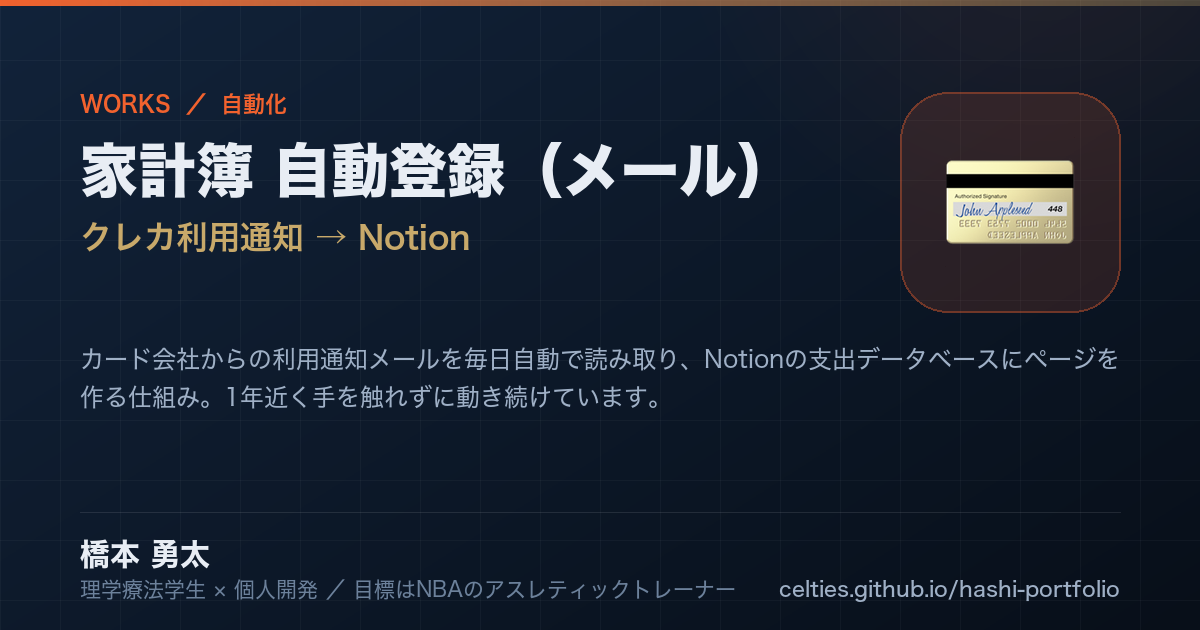
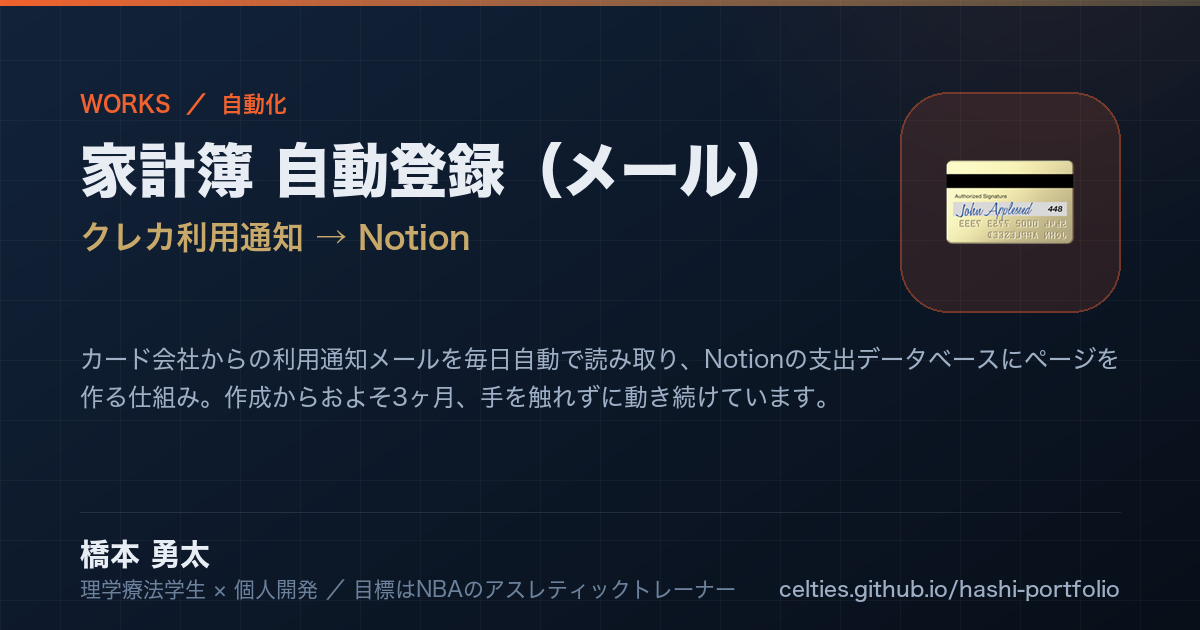
「1年近く」の誇張を直し、強みと診断のまとめを本人の言葉に

Changed region(s): [[0.185, 0.6032, 0.6783, 0.6635]]

diff --git a/works/kakeibo-mail/index.html b/works/kakeibo-mail/index.html
@@ -4,14 +4,14 @@
 <meta charset="UTF-8" />
 <meta name="viewport" content="width=device-width, initial-scale=1" />
 <title>家計簿 自動登録（メール）｜クレカ利用通知 → Notion — 橋本勇太のつくったもの</title>
-<meta name="description" content="カード会社からの利用通知メールを毎日自動で読み取り、Notionの支出データベースにページを作る仕組み。1年近く手を触れずに動き続けています。" />
+<meta name="description" content="カード会社からの利用通知メールを毎日自動で読み取り、Notionの支出データベースにページを作る仕組み。作成からおよそ3ヶ月、手を触れずに動き続けています。" />
 <link rel="canonical" href="https://celties.github.io/hashi-portfolio/works/kakeibo-mail/" />
 <meta name="theme-color" content="#E8E8E8" />
 <meta property="og:site_name" content="橋本勇太 / Hashi — Works" />
 <meta property="og:locale" content="ja_JP" />
 <meta property="og:type" content="article" />
 <meta property="og:title" content="家計簿 自動登録（メール）｜クレカ利用通知 → Notion — 橋本勇太のつくったもの" />
-<meta property="og:description" content="カード会社からの利用通知メールを毎日自動で読み取り、Notionの支出データベースにページを作る仕組み。1年近く手を触れずに動き続けています。" />
+<meta property="og:description" content="カード会社からの利用通知メールを毎日自動で読み取り、Notionの支出データベースにページを作る仕組み。作成からおよそ3ヶ月、手を触れずに動き続けています。" />
 <meta property="og:url" content="https://celties.github.io/hashi-portfolio/works/kakeibo-mail/" />
 <meta property="og:image" content="https://celties.github.io/hashi-portfolio/og/kakeibo-mail.png" />
 <meta property="og:image:width" content="1200" />
@@ -23,7 +23,7 @@
 <link rel="preconnect" href="https://fonts.gstatic.com" crossorigin />
 <link href="https://fonts.googleapis.com/css2?family=Zen+Kaku+Gothic+New:wght@400;500;700;900&family=Space+Grotesk:wght@400;500;700&display=swap" rel="stylesheet" />
 <link rel="stylesheet" href="../../style.css?v=37" />
-<script type="application/ld+json">{"@context":"https://schema.org","@type":"CreativeWork","name":"家計簿 自動登録（メール）","alternativeHeadline":"クレカ利用通知 → Notion","description":"カード会社からの利用通知メールを毎日自動で読み取り、Notionの支出データベースにページを作る仕組み。1年近く手を触れずに動き続けています。","url":"https://celties.github.io/hashi-portfolio/works/kakeibo-mail/","image":"https://celties.github.io/hashi-portfolio/og/kakeibo-mail.png","genre":"自動化","inLanguage":"ja","author":{"@type":"Person","@id":"https://celties.github.io/hashi-portfolio/#person","name":"橋本勇太","alternateName":["Yuta Hashimoto","Hashi"],"url":"https://celties.github.io/hashi-portfolio/","image":"https://celties.github.io/hashi-portfolio/og/default.png","jobTitle":"理学療法学生","affiliation":{"@type":"CollegeOrUniversity","name":"東京都立大学"},"knowsAbout":["理学療法","バスケットボール","個人開発","業務自動化","動画制作"],"sameAs":["https://github.com/celties","https://www.linkedin.com/in/hashimoto-yuta-tmu/","https://www.instagram.com/nbatrainerfromjapan/"]}}</script>
+<script type="application/ld+json">{"@context":"https://schema.org","@type":"CreativeWork","name":"家計簿 自動登録（メール）","alternativeHeadline":"クレカ利用通知 → Notion","description":"カード会社からの利用通知メールを毎日自動で読み取り、Notionの支出データベースにページを作る仕組み。作成からおよそ3ヶ月、手を触れずに動き続けています。","url":"https://celties.github.io/hashi-portfolio/works/kakeibo-mail/","image":"https://celties.github.io/hashi-portfolio/og/kakeibo-mail.png","genre":"自動化","inLanguage":"ja","author":{"@type":"Person","@id":"https://celties.github.io/hashi-portfolio/#person","name":"橋本勇太","alternateName":["Yuta Hashimoto","Hashi"],"url":"https://celties.github.io/hashi-portfolio/","image":"https://celties.github.io/hashi-portfolio/og/default.png","jobTitle":"理学療法学生","affiliation":{"@type":"CollegeOrUniversity","name":"東京都立大学"},"knowsAbout":["理学療法","バスケットボール","個人開発","業務自動化","動画制作"],"sameAs":["https://github.com/celties","https://www.linkedin.com/in/hashimoto-yuta-tmu/","https://www.instagram.com/nbatrainerfromjapan/"]}}</script>
 <script type="application/ld+json">{"@context":"https://schema.org","@type":"BreadcrumbList","itemListElement":[{"@type":"ListItem","position":1,"name":"トップ","item":"https://celties.github.io/hashi-portfolio/"},{"@type":"ListItem","position":2,"name":"つくったもの","item":"https://celties.github.io/hashi-portfolio/works/"},{"@type":"ListItem","position":3,"name":"家計簿 自動登録（メール）","item":"https://celties.github.io/hashi-portfolio/works/kakeibo-mail/"}]}</script>
 </head>
 <body class="page">
@@ -56,7 +56,7 @@
       <a class="badge" href="../../works/#automation">自動化</a>
     </div>
 
-    <p class="m-sum">カード会社からの利用通知メールを毎日自動で読み取り、Notionの支出データベースにページを作る仕組み。1年近く手を触れずに動き続けています。</p>
+    <p class="m-sum">カード会社からの利用通知メールを毎日自動で読み取り、Notionの支出データベースにページを作る仕組み。作成からおよそ3ヶ月、手を触れずに動き続けています。</p>
 
     <h2 class="m-h">なぜ作ったか・どう作ったか</h2>
     <div class="m-body"><p>IMAPでGmailを取得し、行ラベル方式のパーサーで店名・金額・日付を抜き出してNotionに登録します。店名のキーワードからカテゴリーとページ絵文字まで自動で決まります。</p><p>楽天カードの「速報版」は金額しか届かないので、いったん仮登録しておき、後日届く確定メールで同じページの店名とカテゴリーを上書きする二段構えにしました。</p><p>実運用でぶつかった問題がそのまま設計になっています。NotionのDB自動化がAPI作成直後の日付を上書きするので10秒待って再設定する、launchdはDownloads配下を読めないので実行ファイルをホーム直下へ置く、macOSのバックグラウンド管理に拒否されて起動しなくなる——こうした落とし穴を1つずつ潰しました。</p></div>

diff --git a/data.js b/data.js
@@ -157,7 +157,7 @@ const PROJECTS = [
     featured: true,
     emoji: "💳",
     summary:
-      "カード会社からの利用通知メールを毎日自動で読み取り、Notionの支出データベースにページを作る仕組み。1年近く手を触れずに動き続けています。",
+      "カード会社からの利用通知メールを毎日自動で読み取り、Notionの支出データベースにページを作る仕組み。作成からおよそ3ヶ月、手を触れずに動き続けています。",
     body: [
       "IMAPでGmailを取得し、行ラベル方式のパーサーで店名・金額・日付を抜き出してNotionに登録します。店名のキーワードからカテゴリーとページ絵文字まで自動で決まります。",
       "楽天カードの「速報版」は金額しか届かないので、いったん仮登録しておき、後日届く確定メールで同じページの店名とカテゴリーを上書きする二段構えにしました。",
@@ -303,7 +303,7 @@ const INTERESTS = [
 
 const STRENGTHS = [
   { title: "困りごとを道具にする", note: "不便を我慢せず、その日のうちに動くものを作って回し始める。このサイトに並ぶ作品は、ほぼ全部その産物。" },
-  { title: "続く仕組みをつくる", note: "気合いではなく仕組みで続ける。毎日決まった時間に走る自動化を、1年近く止めずに運用している。" },
+  { title: "続く仕組みをつくる", note: "気合いではなく仕組みで続ける。一度決めたことを、毎日こつこつ続けられる。" },
   { title: "3つの立場からコートを見た", note: "プレイヤー・学生コーチ・OBトレーナーのすべてを経験した。同じ1本のプレーが、やる側・教える側・支える側でどう違って見えるかを知っている。いまは大学のサークルで、運営する側にも回っている。" },
   { title: "身体とデータの両方を見る", note: "理学療法で学ぶ身体の知識と、記録・可視化の技術をつなげて考えられる。" },
   { title: "ひとりで最後まで運ぶ", note: "企画・設計・実装・デザイン・公開・運用まで、ひと通り自分で通せる。" },
@@ -387,7 +387,7 @@ const PERSONALITY = {
     },
   ],
   summary:
-    "人に向かっていく熱と、筋道を立てて淡々と運ぶ冷静さ。この二つが同居しているのが自分だと思っています。支える側の仕事には、たぶん両方が要ります。",
+    "人に向かっていく熱と、筋道を立てて淡々と運ぶ冷静さ。この二つが同居しているのが自分だと思っています。人を支える役職には欠かせない能力ではないでしょうか。",
 };
 
 const CAREER = {

diff --git a/works/task-manager/index.html b/works/task-manager/index.html
@@ -100,7 +100,7 @@
           <span class="badge">2026.07 —</span>
           <span class="badge">自動化</span>
         </span>
-        <span class="card-sum">カード会社からの利用通知メールを毎日自動で読み取り、Notionの支出データベースにページを作る仕組み。1年近く手を触れずに動き続けています。</span>
+        <span class="card-sum">カード会社からの利用通知メールを毎日自動で読み取り、Notionの支出データベースにページを作る仕組み。作成からおよそ3ヶ月、手を触れずに動き続けています。</span>
         <span class="card-more">詳しく見る <span class="arw">→</span></span>
       </a><a class="card feat" href="../../works/order-reader/" data-id="order-reader">
         <span class="card-top">

diff --git a/works/index.html b/works/index.html
@@ -158,7 +158,7 @@
           <span class="badge">2026.07 —</span>
           <span class="badge">自動化</span>
         </span>
-        <span class="card-sum">カード会社からの利用通知メールを毎日自動で読み取り、Notionの支出データベースにページを作る仕組み。1年近く手を触れずに動き続けています。</span>
+        <span class="card-sum">カード会社からの利用通知メールを毎日自動で読み取り、Notionの支出データベースにページを作る仕組み。作成からおよそ3ヶ月、手を触れずに動き続けています。</span>
         <span class="card-more">詳しく見る <span class="arw">→</span></span>
       </a><a class="card feat" href="../works/order-reader/" data-id="order-reader">
         <span class="card-top">

diff --git a/works/order-reader/index.html b/works/order-reader/index.html
@@ -100,7 +100,7 @@
           <span class="badge">2026.07 —</span>
           <span class="badge">自動化</span>
         </span>
-        <span class="card-sum">カード会社からの利用通知メールを毎日自動で読み取り、Notionの支出データベースにページを作る仕組み。1年近く手を触れずに動き続けています。</span>
+        <span class="card-sum">カード会社からの利用通知メールを毎日自動で読み取り、Notionの支出データベースにページを作る仕組み。作成からおよそ3ヶ月、手を触れずに動き続けています。</span>
         <span class="card-more">詳しく見る <span class="arw">→</span></span>
       </a><a class="card" href="../../works/task-manager/" data-id="task-manager">
         <span class="card-top">

diff --git a/index.html b/index.html
@@ -301,7 +301,7 @@
           <span class="badge">2026.07 —</span>
           <span class="badge">自動化</span>
         </span>
-        <span class="card-sum">カード会社からの利用通知メールを毎日自動で読み取り、Notionの支出データベースにページを作る仕組み。1年近く手を触れずに動き続けています。</span>
+        <span class="card-sum">カード会社からの利用通知メールを毎日自動で読み取り、Notionの支出データベースにページを作る仕組み。作成からおよそ3ヶ月、手を触れずに動き続けています。</span>
         <span class="card-more">詳しく見る <span class="arw">→</span></span>
       </a><a class="card feat" href="works/order-reader/" data-id="order-reader">
         <span class="card-top">

diff --git a/works/basketball-stats/index.html b/works/basketball-stats/index.html
@@ -128,7 +128,7 @@
           <span class="badge">2026.07 —</span>
           <span class="badge">自動化</span>
         </span>
-        <span class="card-sum">カード会社からの利用通知メールを毎日自動で読み取り、Notionの支出データベースにページを作る仕組み。1年近く手を触れずに動き続けています。</span>
+        <span class="card-sum">カード会社からの利用通知メールを毎日自動で読み取り、Notionの支出データベースにページを作る仕組み。作成からおよそ3ヶ月、手を触れずに動き続けています。</span>
         <span class="card-more">詳しく見る <span class="arw">→</span></span>
       </a></div>
 

diff --git a/works/kintore-dojo/index.html b/works/kintore-dojo/index.html
@@ -128,7 +128,7 @@
           <span class="badge">2026.07 —</span>
           <span class="badge">自動化</span>
         </span>
-        <span class="card-sum">カード会社からの利用通知メールを毎日自動で読み取り、Notionの支出データベースにページを作る仕組み。1年近く手を触れずに動き続けています。</span>
+        <span class="card-sum">カード会社からの利用通知メールを毎日自動で読み取り、Notionの支出データベースにページを作る仕組み。作成からおよそ3ヶ月、手を触れずに動き続けています。</span>
         <span class="card-more">詳しく見る <span class="arw">→</span></span>
       </a></div>
 

diff --git a/works/magical-journal/index.html b/works/magical-journal/index.html
@@ -128,7 +128,7 @@
           <span class="badge">2026.07 —</span>
           <span class="badge">自動化</span>
         </span>
-        <span class="card-sum">カード会社からの利用通知メールを毎日自動で読み取り、Notionの支出データベースにページを作る仕組み。1年近く手を触れずに動き続けています。</span>
+        <span class="card-sum">カード会社からの利用通知メールを毎日自動で読み取り、Notionの支出データベースにページを作る仕組み。作成からおよそ3ヶ月、手を触れずに動き続けています。</span>
         <span class="card-more">詳しく見る <span class="arw">→</span></span>
       </a></div>
 

diff --git a/works/nihon-okoshi/index.html b/works/nihon-okoshi/index.html
@@ -128,7 +128,7 @@
           <span class="badge">2026.07 —</span>
           <span class="badge">自動化</span>
         </span>
-        <span class="card-sum">カード会社からの利用通知メールを毎日自動で読み取り、Notionの支出データベースにページを作る仕組み。1年近く手を触れずに動き続けています。</span>
+        <span class="card-sum">カード会社からの利用通知メールを毎日自動で読み取り、Notionの支出データベースにページを作る仕組み。作成からおよそ3ヶ月、手を触れずに動き続けています。</span>
         <span class="card-more">詳しく見る <span class="arw">→</span></span>
       </a></div>
 
